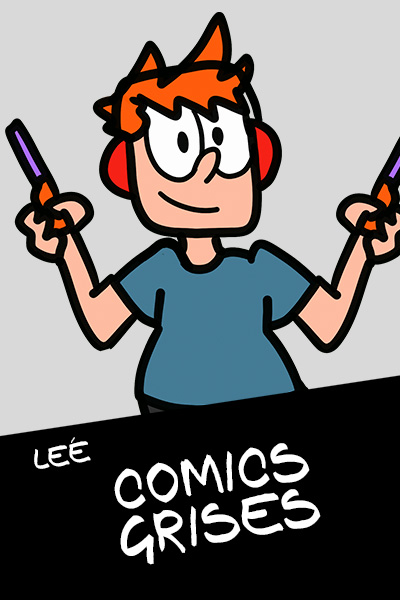
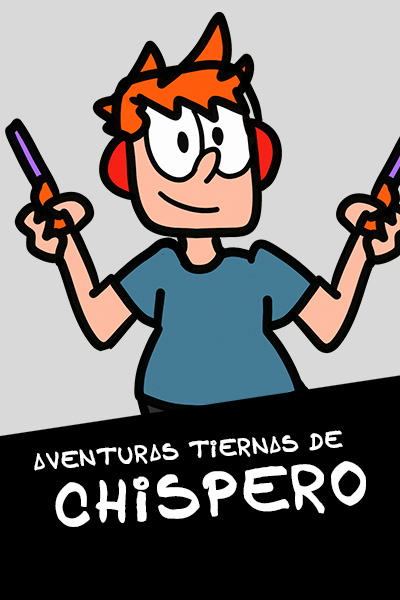
10

Changed region(s): [[0.06, 0.72, 0.93, 0.96]]

diff --git a/fernetshock.html b/fernetshock.html
@@ -1,24 +1,150 @@
 <!DOCTYPE html>
 <html>
 <head>
-<title> Fernet Shock </title>
+<title> Repositorio </title>
     <meta charset="UTF-8">
     <link rel="stylesheet" href="style.css">
     <meta name="viewport" content="width=device-width, initial-scale=1.0">
 </head>
 <body>
 <header>
+    <a href="index.html">
     <img src="banner.jpg" alt="Banner Fernet Shock">
+  </a>
 </header>
-<div>
-    <h3 class="argo palio siena bora"> El héroe del pueblo </h3>
-    <h4 class="argo palio siena bora"> Cuando Villa Rufino está en problemas, ¡la fernet-señal ilumina el cielo! El narcisista superhéroe Fernet Shock está listo para fernecear a todos sus enemigos y defender la paz y la justicia del barrio al ritmo del cuarteto, mientras aspira a ser el próximo Mandamás. Pero Agustín también tiene que enfrentar los quilombos de la vida y el laburo de un veniteañero común junto con sus amigos, que viven con el en su casa llamada Villa Alegría.
-        En esta lista vas a leer todas sus aventuras y las de sus amigos y enemigos, sus aventuras épicas y algo de slice of life! </h4>
-</div>
-<div>
+<div id="comicsgrises" class="aveo">
 <nav>
         <ul>
-          <li><a href=""><img id= "Erks" src="cap01.jpg" alt="En la ciudad de los Erks" class="clio"></a></li>
+          <li><h2 class="argo bora">Comics Grises</h2><h4 class="argo bora">Las favoritas del pueblo. Historias cortitas y al pie. </h4></li>
+          <li><a href=""><h3></a>El Quinto Cubanito</li>
+          <li><a href=""><h3></a>El stream del conicet</li>
+          <li><a href=""><h3></a>Está caraso hablar en inglés</li>
+        </ul>
+      </nav>
+</div>
+<div id="ciudaderks" class="aveo">
+<nav>
+        <ul>
+          <li><h2 class="argo bora">En la Ciudad de los Erks</h2><h4 class="argo bora"> La primera gran aventura de Fernet Shock, donde enfrenta a su ídolo de toda la vida, el Pelado, el novio de su hermana y heroe legenario de Córdoba, quien trata de destruir la Ciudad de los Erks con su carisma interminable. Agustín tiene que aprender a dejar su ego de lado y ser el lider que su gente necesita. Esta historia tiene que ser leída en orden.</h4></li>
+          <li><a href=""><h3></a>¡Buen día, mundo cruel!</li>
+          <li><a href=""><h3></a>Otra Aventura del Pela</li>
+          <li><a href=""><h3></a>La Estatua</li>
+          <li><a href=""><h3></a>Un poquitito violento</li>
+          <li><a href=""><h3></a>Acá hay algo raro</li>
+          <li><a href=""><h3></a>Lo malo de ser bueno</li>
+          <li><a href=""><h3></a>El Especial del 31 de Octubre</li>
+          <li><a href=""><h3></a>La Antena</li>
+          <li><a href=""><h3></a>Ole Blando</li>
+          <li><a href=""><h3></a>¿Y ustedes que pingo pintan?</li>
+          <li><a href=""><h3></a>Tom y jerry</li>
+          <li><a href=""><h3></a>Un vándalo con tutú</li>
+          <li><a href=""><h3></a>Agustín y su mamá</li>
+          <li><a href=""><h3></a>Apretá B para correr mas rápido</li>
+          <li><a href=""><h3></a>¡Mirá a quien me vengo a encontrar!</li>
+          <li><a href=""><h3></a>El club de los remanentes</li>
+          <li><a href=""><h3></a>Belgrano-Talleres</li>
+          <li><a href=""><h3></a>Como hacer un buen fernet</li>
+          <li><a href=""><h3></a>Acá te tengo tu cariñito</li>
+          <li><a href=""><h3></a>Siempre en estado</li>
+          <li><a href=""><h3></a>¿No podés sacar esa maldita propaganda?</li>
+          <li><a href=""><h3></a>Si los hermanos se pelean...</li>
+          <li><a href=""><h3></a>Nahuel no vale nada</li>
+          <li><a href=""><h3></a>La batalla de la demencia</li>
+          <li><a href=""><h3></a>La alegría de los pueblos</li>
+          <li><a href=""><h3></a>Que empiece la fiesta</li>
+        </ul>
+      </nav>
+</div>
+<div id="fernetshock" class="aveo">
+<nav>
+        <ul>
+          <li><h2 class="argo bora">Fernet Shock</h2><h4 class="argo bora">Villanos delirantes y momentos clásicos. Recomiendo leer en órden pero no es obligatorio.</h4></li>
+          <li><a href=""><h3></a>Fernet Shock y el Monstruo hecho de basura</li>
+          <li><a href=""><h3></a>Chori Girl contra el fantasma de los sanguches de milanesa</li>
+          <li><a href=""><h3></a>Fernet Shock y la vincha que acomoda las ideas</li>
+          <li><a href=""><h3></a>Germán rompe el placard</li>
+          <li><a href=""><h3></a>Fernet Shock y Polito</li>
+          <li><a href=""><h3></a>Fernet Shock contra la jarra loca</li>
+          <li><a href=""><h3></a>Fernet Shock vs Modo Incognito</li>
+          <li><a href=""><h3></a>Alquimia 70/30</li>
+          <li><a href=""><h3></a>La batalla de Capilla del Monte</li>
+          <li><a href=""><h3></a>Cuartetazo Violento</li>
+          <li><a href=""><h3></a>Fernet Shock está Fofito</li>
+          <li><a href=""><h3></a>¡Pero si estás igual!</li>
+          <li><a href=""><h3></a>Sed de la peligrosa</li>
+          <li><a href=""><h3></a>Fernet Shock contra los bros</li>
+          <li><a href=""><h3></a>Un ataque muy magenta</li>
+          <li><a href=""><h3></a>Disca vs Disco</li>
+          <li><a href=""><h3></a>La peluca del mandamás</li>
+          <li><a href=""><h3></a>Fernet Shock pasa de moda</li>
+          <li><a href=""><h3></a>Una noche en la ópera</li>
+          <li><a href=""><h3></a>La guerra de gaseosas</li>
+          <li><a href=""><h3></a>Bauti Tuerca contra la cazabobos</li>
+          <li><a href=""><h3></a>¡Fernet Shock dice una burrada!</li>
+          <li><a href=""><h3></a>Un miércoles cualquiera</li>
+          <li><a href=""><h3></a>La lluvia de tergopor</li>
+          <li><a href=""><h3></a>Fernet Shock a la izquierda del diablo</li>
+          <li><a href=""><h3></a>Derecho de piso</li>
+          <li><a href=""><h3></a>El payaso chatarra</li>
+        </ul>
+      </nav>
+</div>
+<div id="chispero" class="aveo">
+<nav>
+        <ul>
+          <li><h2 class="argo bora">Chispero</h2><h4 class="argo bora">Historias del inocente y adorable Chispero, enfrentandose a monstruos legendarios, villanos que no lo entienden y saliendo con mujeres a las que vuelve locas. A leer con mucha paciencia. </h4></li>
+          <li><a href=""><h3></a>Chispero vs Chispero</li>
+          <li><a href=""><h3></a>Date cuenta, Chispero</li>
+          <li><a href=""><h3></a>Chispero en rebeldía a la suiza</li>
+          <li><a href=""><h3></a>Chispero vs Chispero 2</li>
+          <li><a href=""><h3></a>Chispero contra el Mamuca</li>
+          <li><a href=""><h3></a>Chispero nace de nuevo</li>
+          <li><a href=""><h3></a>El accidentado chamuyo de Chispero</li>
+          <li><a href=""><h3></a>El sanguche mágico de Chispero</li>
+          <li><a href=""><h3></a>Chispero y el desengrasante</li>
+          <li><a href=""><h3></a>Chispero pierde las llaves</li>
+          <li><a href=""><h3></a>Chispero en el regreso del mamuca (con Jordanman) </li>
+        </ul>
+      </nav>
+</div>
+<div id="baguette" class="aveo">
+<nav>
+        <ul>
+          <li><h2 class="argo bora">División Baguette</h2><h4 class="argo bora">Formada por los policías Brian "Vandalisman" Yuthiel, que invoca poderes a partir de los nombres de las calles, y León Papadou, que manipula las papas, estos policías franceses viajan por el mundo resolviendo distintos casos. </h4></li>
+          <li><a href=""><h3></a>Vandalisman contra los socavones</li>
+          <li><a href=""><h3></a>en París</li>
+          <li><a href=""><h3></a>en Marsella</li>
+          <li><a href=""><h3></a>en Buenos Aires</li>
+          <li><a href=""><h3></a>en Alemania</li>
+          <li><a href=""><h3></a>en Chubut (con Rayado) </li>
+          <li><a href=""><h3></a>La saga de los ositos (La mancha gigante del pacífico, EEUU, España, Francia y Argentina)</li>
+        </ul>
+      </nav>
+</div>
+<div id="facu" class="aveo">
+<nav>
+        <ul>
+          <li><h2 class="argo bora">Crónicas del Necrocomicón</h2><h4 class="argo bora">Historias protagonizadas por Facu, el chistomancer, y su grimorio, el Necrocomicón, sobre mitos y leyendas populares. </h4></li>
+          <li><a href=""><h3></a>La leyenda de Fernet Shock</li>
+          <li><a href=""><h3></a>Plan de Lucha</li>
+          <li><a href=""><h3></a>El Lobizón vs. El Urumar</li>
+          <li><a href=""><h3></a>El Ladrón de Helados</li>
+          <li><a href=""><h3></a>Vampiturros</li>
+        </ul>
+      </nav>
+</div>
+<div id="fiestas" class="aveo">
+<nav>
+        <ul>
+          <li><h2 class="argo bora">Especiales de las fiestas</h2><h4 class="argo bora">Para leer un 24 o 31 a la tarde.</h4></li>
+          <li><a href=""><h3></a>El regato prometido</li>
+          <li><a href=""><h3></a>Pelis de navidad</li>
+          <li><a href=""><h3></a>El mejor animal</li><li>
+          <li><a href=""><h3></a>Guerra de sobremesa</li>
+          <li><a href=""><h3></a>La leyenda de la anaconda enredada</li>
+          <li><a href=""><h3></a>La maldición del Burrito Sabanero</li>
+          <li><a href=""><h3></a>La Navidad que Fernet Shock no salvó</li>
+          <li><a href=""><h3></a>Guerra de sobremesa II</li>
         </ul>
       </nav>
 </div>

diff --git a/index.html b/index.html
@@ -9,7 +9,9 @@
 </head>
 <body>
 <header>
+    <a href="index.html">
     <img src="banner.jpg" alt="Banner Fernet Shock">
+  </a>
 </header>
 </p>
 <div class="siena">
@@ -21,9 +23,11 @@
     <nav>
         <ul>
     <li><a href=""><img id= "german" src="UL05.jpg" alt="Leé el comic mas nuevo"></a></li>
-    <li><a href="fernetshock.html"><img id= "agus" src="UL01.jpg" alt="Leé Fernet Shock"></a></li>
-    <li><a href="divisionbaguette.html"><img id= "brian" src="UL02.jpg" alt="Leé División Baguette"></a></li>
-    <li><a href="comicsgrises.html"><img id= "chispero" src="UL03.jpg" alt="Leé Comics Grises"></a></li>
+    <li><a href="fernetshock.html#fernetshock"><img id= "agus" src="UL01.jpg" alt="Leé Fernet Shock"></a></li>
+    <li><a href="fernetshock.html#baguette"><img id= "brian" src="UL02.jpg" alt="Leé División Baguette"></a></li>
+    <li><a href="fernetshock.html#comicsgrises"><img id= "jarra" src="UL07.jpg" alt="Leé Comics Grises"></a></li>
+    <li><a href="fernetshock.html#chispero"><img id= "chispero" src="UL03.jpg" alt="Leé a Chispero"></a></li>
+    <li><a href="fernetshock.html#facu"><img id= "facu" src="UL08.jpg" alt="Leé Crónicas del Necrocomicón"></a></li>
     <li><a href="personajes.html"><img id= "josko" src="UL04.jpg" alt="Conocé a los personajes"></a></li>
     <li><a href="galeria.html"><img id= "alexis" src="UL06.jpg" alt="Fernet Shock por otros"></a></li>
         </ul>

diff --git a/style.css b/style.css
@@ -231,6 +231,39 @@ footer h3 {
   font-size: 16px; /* Tamaño normal para PC */
 }
 
+.aveo {
+  background-color: #f0f0f0;
+  padding: 20px;
+  border-radius: 8px;
+  max-width: 800px;
+  margin: 20px auto;
+}
+
+.aveo h2 {
+  text-align: center;
+}
+
+.aveo ul {
+  display: block !important; /* ¡Obligamos a la lista a ser un bloque! */
+}
+
+.aveo li {
+  display: block !important; /* También obligamos a cada ítem */
+}
+
+.aveo li a {
+  display: block !important; /* Y al enlace, para que ocupe toda la línea */
+}
+
+.aveo h3 {
+  max-width: 1200px; /* Esto hace que el elemento no sea más grande que 1200px */
+  width: 90%;       /* Pero que ocupe el 90% del espacio disponible si es más chico */
+  word-wrap: break-word;
+  margin: 0 auto;
+  font-family: 'manrope', sans-serif;
+  color: black;
+}
+
   @media (max-width: 767px) {
   .texto-destacado {
     flex-direction: column; /* Apila la foto y el texto en mobile */
